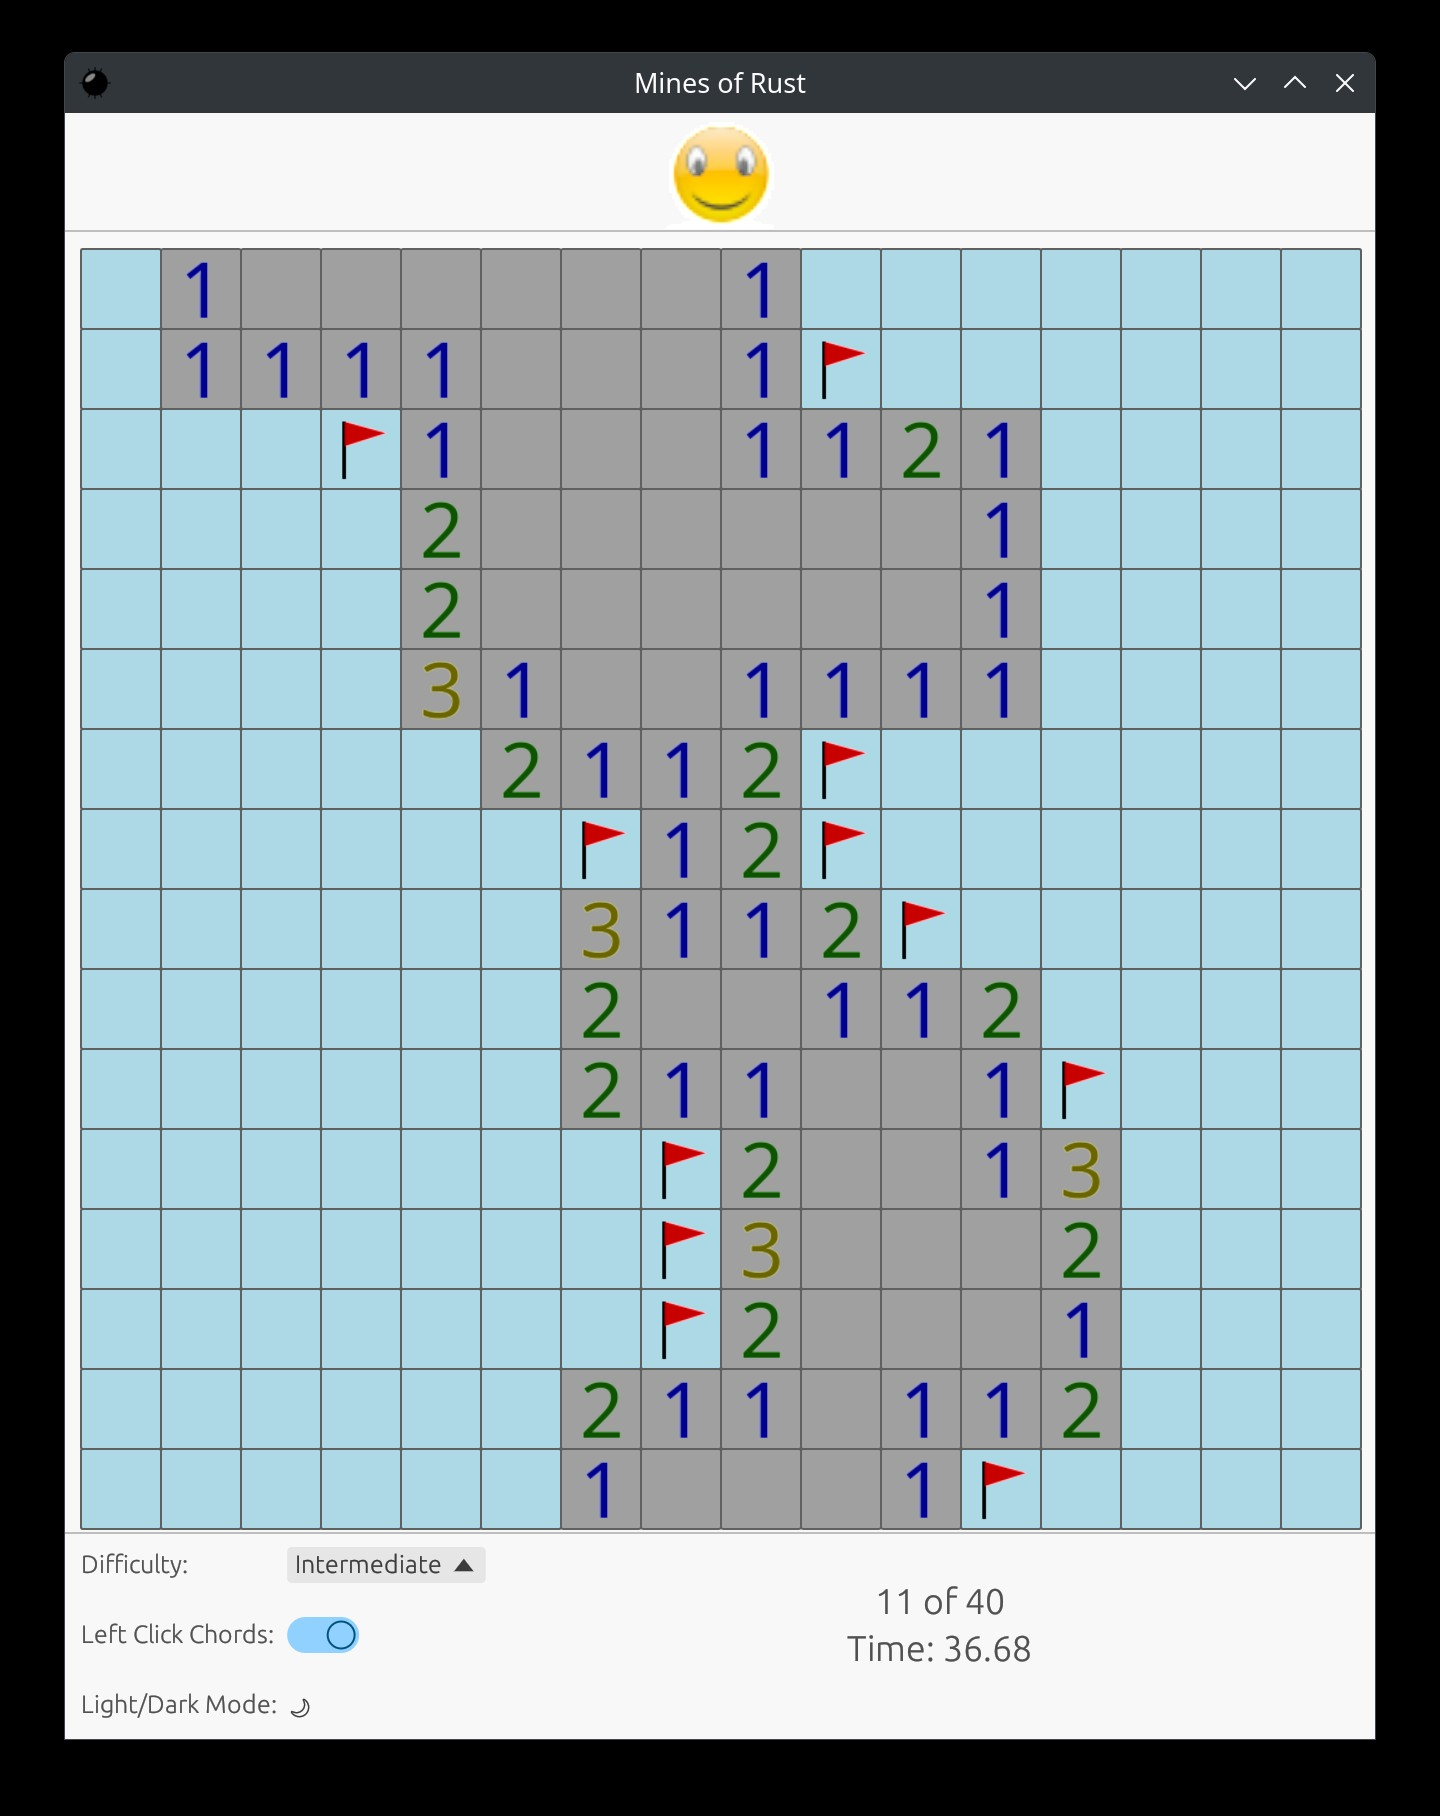
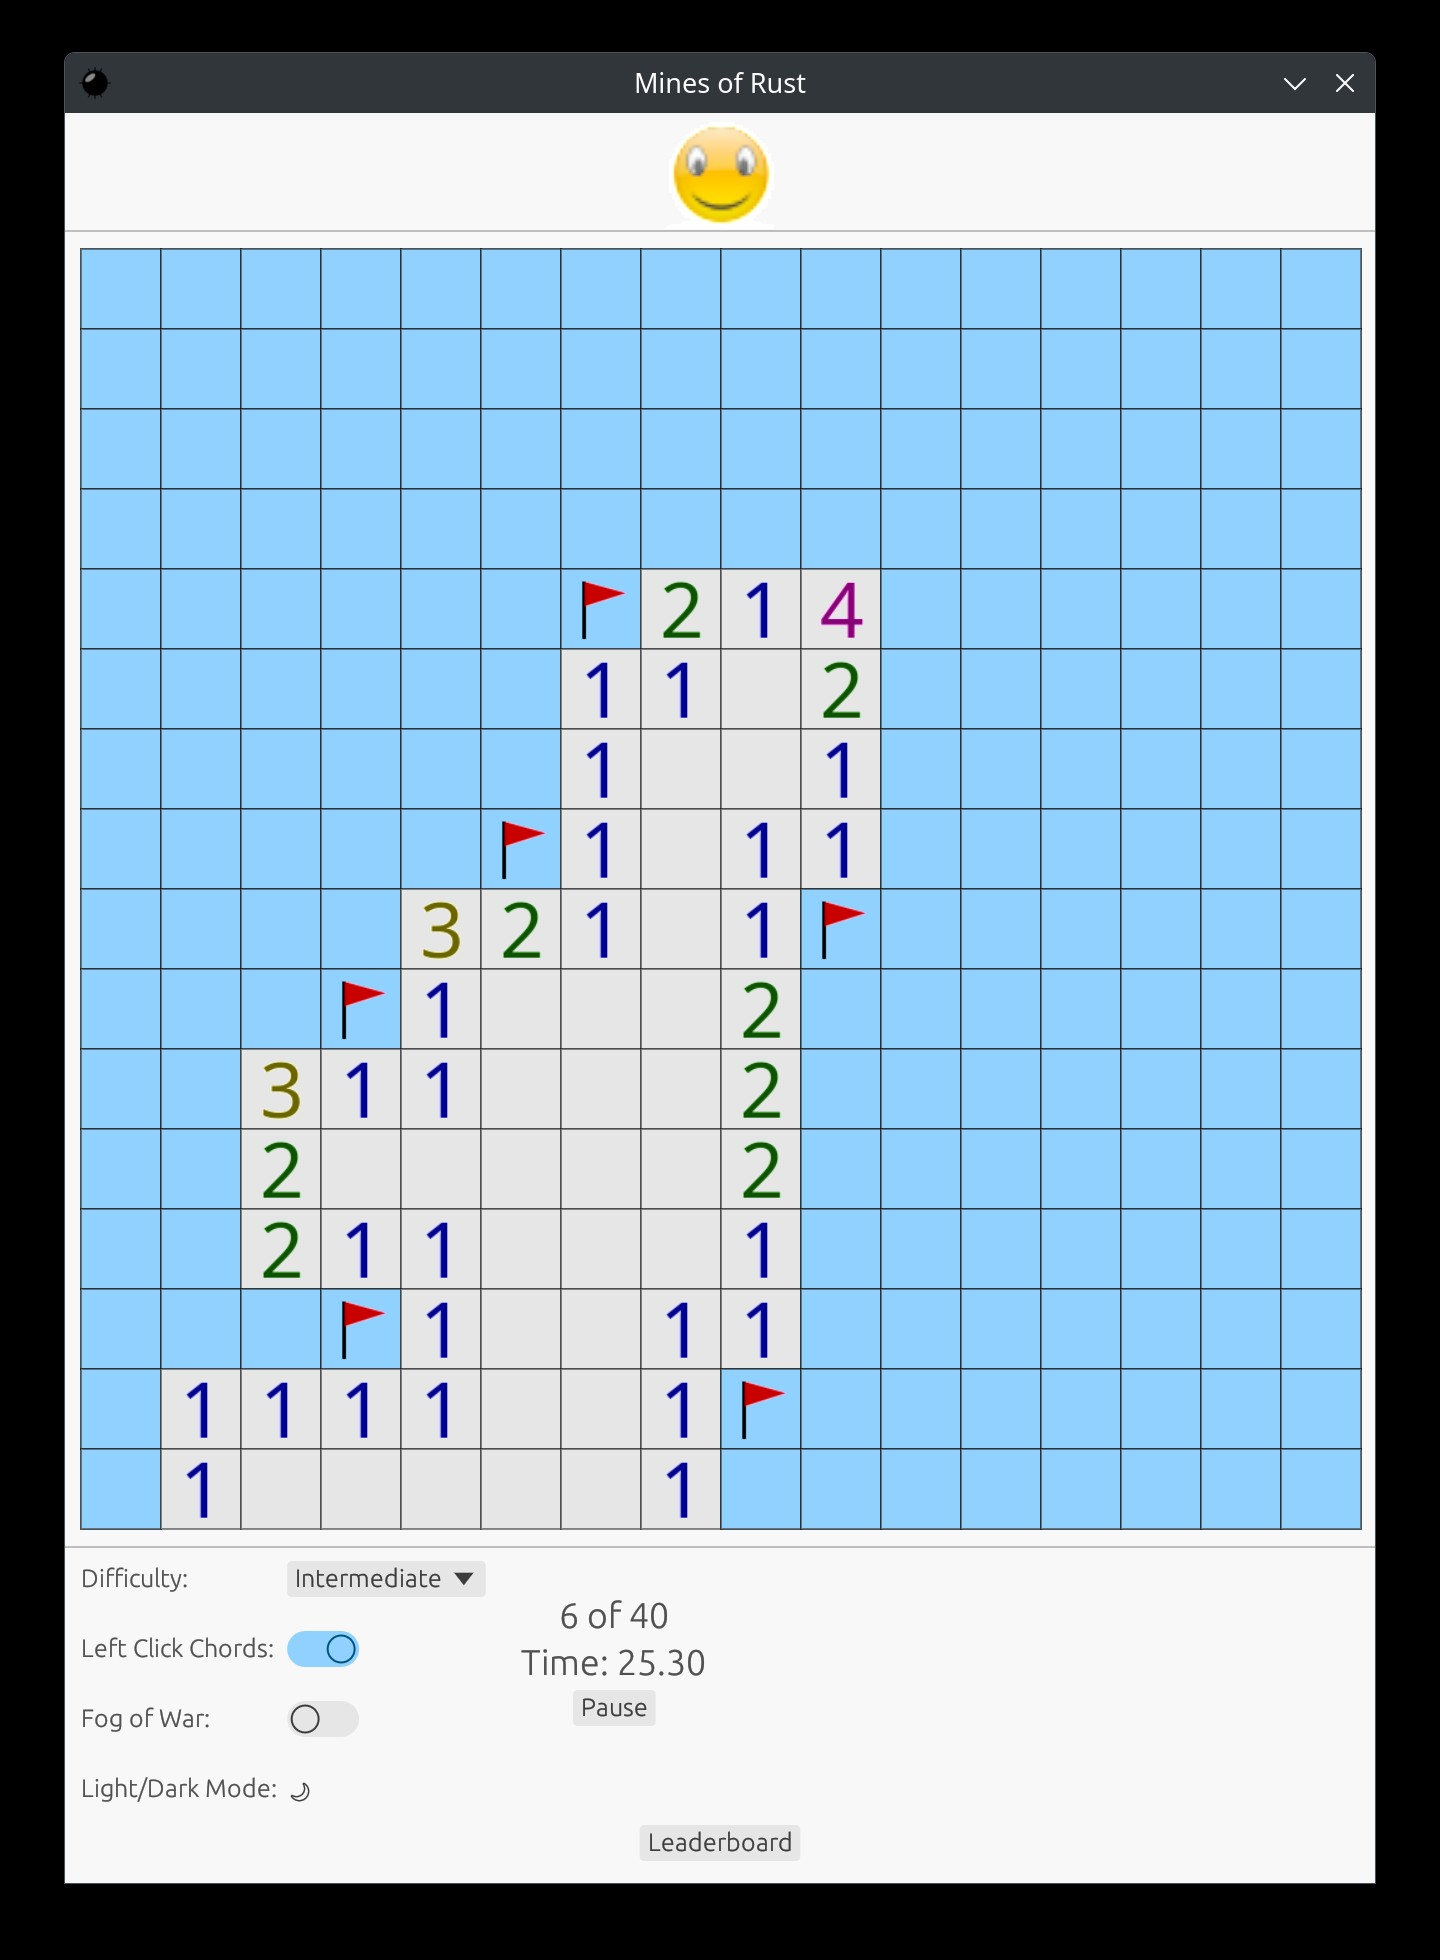
Updated appearance of "Fog of War" mode. Readme update.

diff --git a/src/main.rs b/src/main.rs
@@ -5,7 +5,7 @@ use std::time::SystemTime;
 
 use anyhow::Result;
 use eframe::{egui, glow, Theme};
-use egui::{Key, KeyboardShortcut, Modifiers, Pos2, RichText, Stroke, Vec2, ViewportCommand};
+use egui::{Color32, Key, KeyboardShortcut, Modifiers, Pos2, RichText, Stroke, Vec2, ViewportCommand};
 use egui_extras::install_image_loaders;
 use itertools::iproduct;
 
@@ -188,6 +188,7 @@ impl MinesOfRustApp {
                                 self.leaderboards.beginner.entries.iter().for_each(|e| {
                                     ui.label(&e.player_name);
                                     ui.label(format!("{:.2}", e.time));
+                                    ui.label(format!("{}", e.date.format("%Y-%m-%d %H:%M")));
                                     ui.end_row();
                                 });
                             });
@@ -197,13 +198,14 @@ impl MinesOfRustApp {
                     .default_open(self.state.difficulty == GameDifficulty::Intermediate)
                     .show(ui, |ui| {
                         egui::Grid::new("leaderboard")
-                            .num_columns(2)
+                            .num_columns(3)
                             .spacing([50.0, 5.0])
                             .striped(true)
                             .show(ui, |ui| {
                                 self.leaderboards.intermediate.entries.iter().for_each(|e| {
                                     ui.label(&e.player_name);
                                     ui.label(format!("{:.2}", e.time));
+                                    ui.label(format!("{}", e.date.format("%Y-%m-%d %H:%M")));
                                     ui.end_row();
                                 });
                             });
@@ -220,6 +222,7 @@ impl MinesOfRustApp {
                                 self.leaderboards.expert.entries.iter().for_each(|e| {
                                     ui.label(&e.player_name);
                                     ui.label(format!("{:.2}", e.time));
+                                    ui.label(format!("{}", e.date.format("%Y-%m-%d %H:%M")));
                                     ui.end_row();
                                 });
                             });
@@ -581,13 +584,24 @@ impl MinesOfRustApp {
         let unrevealed_color = visuals_on.bg_fill; //constants::COLOR_UNREVEALED;
         let revealed_color = if is_detonated {
             constants::COLOR_DETONATED
-        } else if opaque {
-            visuals_on.bg_fill
         } else {
             visuals_off.bg_fill
         };
         let border_color = constants::COLOR_BORDER;
         let misflagged_color = constants::COLOR_MISFLAGGED;
+
+        let opaque_color = Color32::from_rgba_unmultiplied(
+            unrevealed_color.r(),
+            unrevealed_color.g(),
+            unrevealed_color.b(),
+            if mouse_distance < 1.0 {
+                0
+            } else if mouse_distance < 3.0 {
+                140
+            } else {
+                255
+            }
+        );
 
         ui.painter()
             .rect(rect, 0.0, revealed_color, Stroke::new(0.5, border_color));
@@ -619,11 +633,11 @@ impl MinesOfRustApp {
             ui.painter()
                 .rect(rect, 0.0, misflagged_color, Stroke::new(0.5, border_color));
             egui::Image::new(egui::include_image!("../assets/flag.png")).paint_at(ui, rect);
-        } else if sqr.is_flagged && !opaque {
+        } else if sqr.is_flagged  {
             ui.painter()
                 .rect(rect, 0.0, unrevealed_color, Stroke::new(0.5, border_color));
             egui::Image::new(egui::include_image!("../assets/flag.png")).paint_at(ui, rect);
-        } else if sqr.is_revealed && !opaque {
+        } else if sqr.is_revealed  {
             match sqr.numeral {
                 1 => egui::Image::new(egui::include_image!("../assets/1.png")).paint_at(ui, rect),
                 2 => egui::Image::new(egui::include_image!("../assets/2.png")).paint_at(ui, rect),
@@ -640,6 +654,10 @@ impl MinesOfRustApp {
                 .rect(rect, 0.0, unrevealed_color, Stroke::new(0.5, border_color));
         }
 
+        if opaque && self.game_state == GameState::Playing {
+            ui.painter()
+                .rect(rect, 0.0, opaque_color, Stroke::new(0.5, border_color));
+        }
         response
     }
 }

diff --git a/README.md b/README.md
@@ -21,6 +21,17 @@ whenever I get bored enough to do it.
 * *ctrl+q* - Exit
 * *ctrl+p* - Pause/Resume
 
+## Features:
+
+* Three modes of difficulty: Beginner, Intermediate, and Expert.
+* Optional chord on left (primary) mouse click.
+* Light / Dark modes
+* Fog of War where only a small window of the field is visible at a time:
+
+<p align="center">
+  <img src="assets/minesofrust_screenshot_fow.jpg" width="300">
+</p>
+
 ## Building from source
 
 A working Rust (https://www.rust-lang.org/) installation is required for building. Mines of Rust targets the 2021
